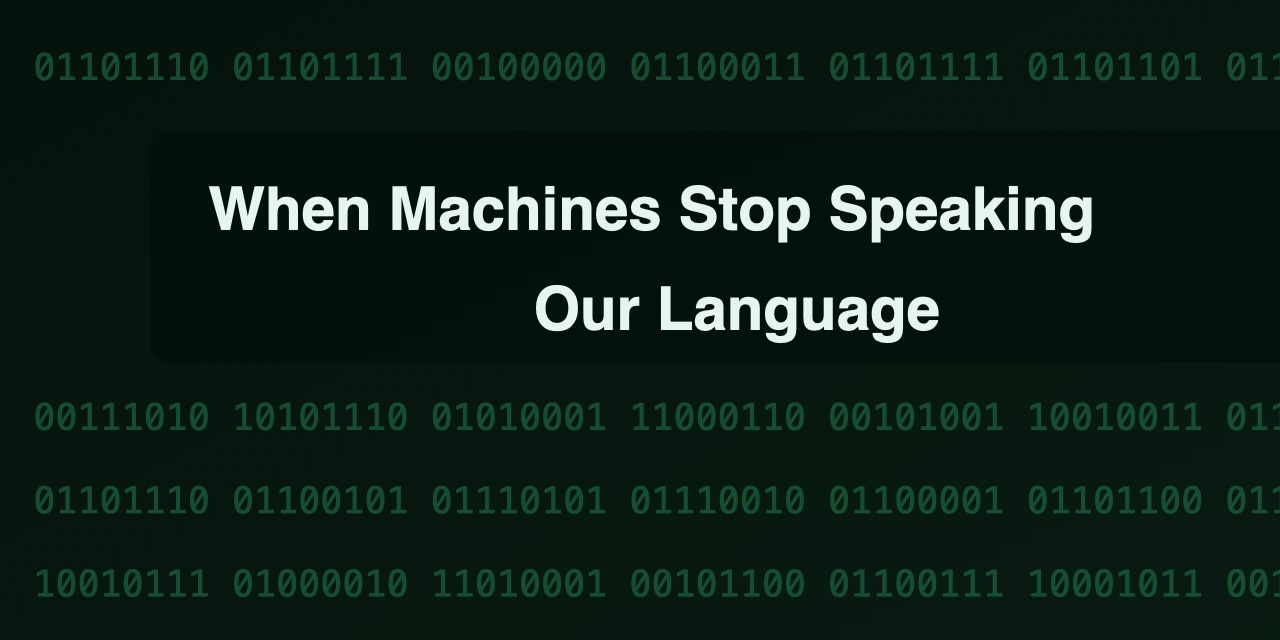
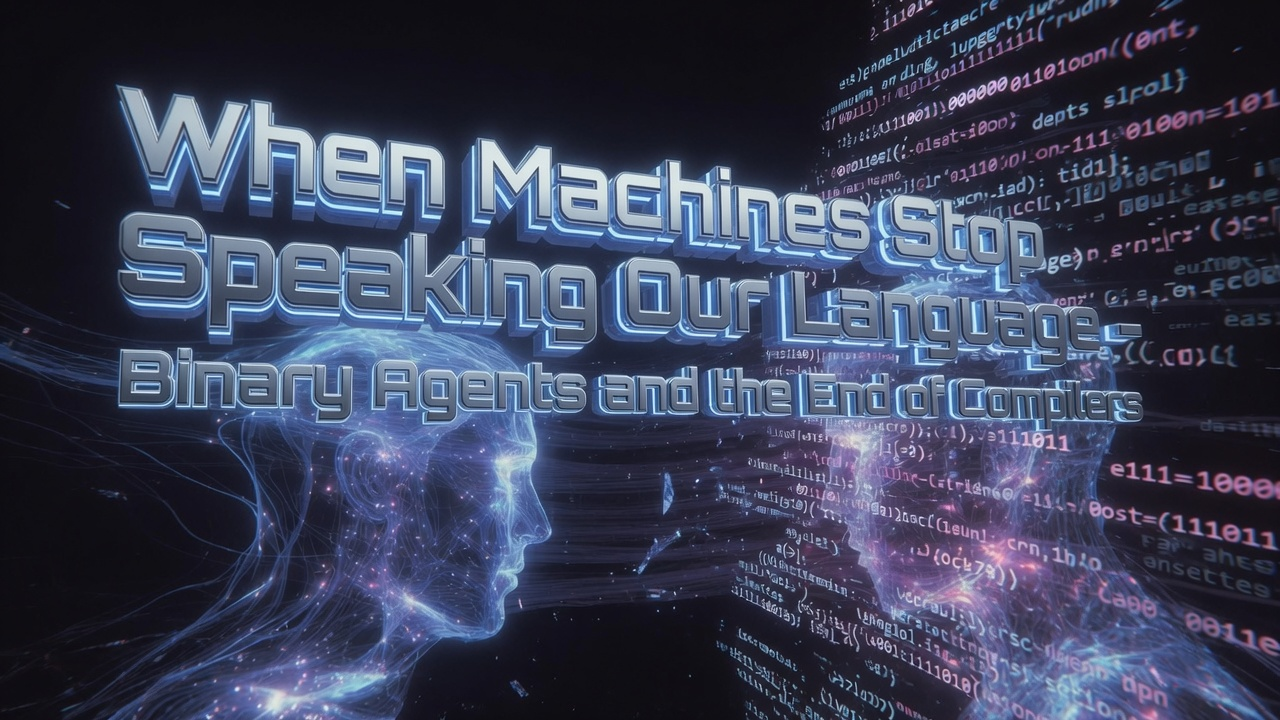
Update "When Machines Stop Speaking Our Language" article with new cover image and remove type classification
- Removed the type classification from the article metadata for consistency.
- Updated the cover image to enhance visual engagement and align with current content standards.

diff --git a/content/ai/agent-first-architecture-engineer-as-curator.md b/content/ai/agent-first-architecture-engineer-as-curator.md
@@ -2,7 +2,6 @@
 title: "Agent-First Architecture: The Engineer as System Curator"
 date: 2026-04-23T21:01:00+01:00
 draft: false
-type: essay
 tags: ["ai", "agent", "architecture", "platform-engineering", "data-engineering", "product-management", "leadership"]
 description: "Some thoughts on where agent-first architecture might take us, and what engineering could look like if the job shifts from building systems line by line to curating, governing, and evolving fleets of agents."
 cover:

diff --git a/content/ai/agent-protocols-mcp-a2a-acp.md b/content/ai/agent-protocols-mcp-a2a-acp.md
@@ -2,7 +2,6 @@
 title: "The Quiet Standardisation of Agent Protocols - MCP, A2A, ACP Compared"
 date: 2026-05-03T12:00:00+01:00
 draft: false
-type: essay
 tags: ['ai', 'agent', 'mcp', 'protocol', 'tools', 'interoperability', '2026']
 description: "While the headlines were about model launches, the agent ecosystem quietly converged on three protocols that matter - MCP, A2A, and ACP. A grounded comparison of what each one actually does, where they overlap, and which to bet on if you are building agents in 2026."
 cover:

diff --git a/content/ai/agent-reliability-debugging-non-deterministic.md b/content/ai/agent-reliability-debugging-non-deterministic.md
@@ -2,7 +2,6 @@
 title: "The Agent Reliability Problem: Debugging Non-Deterministic Systems"
 date: 2026-05-15T06:30:00+01:00
 draft: false
-type: essay
 tags: ["ai", "agent", "reliability", "debugging", "testing", "production", "agentic-engineering"]
 description: "AI agents that work in the demo and fail in production are the standard story of the last two years. A practical look at why agent reliability is genuinely hard, what patterns have emerged for handling it, and which testing approaches actually work."
 cover:

diff --git a/content/ai/ai-agents-that-actually-work.md b/content/ai/ai-agents-that-actually-work.md
@@ -2,7 +2,6 @@
 title: "AI Agents That Actually Work: Patterns From Real Projects"
 date: 2026-05-01T08:00:00+01:00
 draft: false
-type: essay
 tags: ["ai", "agent", "architecture", "tool-use", "agentic-engineering", "reliability"]
 description: "The patterns that separate agents that ship and stay shipped from the ones that demo well and fall over the moment they meet a real workload."
 cover:

diff --git a/content/ai/ai-energy-crisis-data-center-power.md b/content/ai/ai-energy-crisis-data-center-power.md
@@ -2,7 +2,6 @@
 title: "The AI Energy Crisis: Why Data Center Power Will Define the Next Decade"
 date: 2026-05-11T17:00:00+01:00
 draft: false
-type: essay
 tags: ["ai", "energy", "infrastructure", "data-center", "policy", "2026"]
 description: "A grounded look at the energy constraint becoming the binding limit on AI deployment in 2026 - the power demand, the transformer backlogs, the grid interconnect queues, the rising consumer electricity prices, and what it means for the shape of the next decade of compute."
 cover:

diff --git a/content/ai/ai-evals-are-broken.md b/content/ai/ai-evals-are-broken.md
@@ -3,7 +3,6 @@ title: "AI Evals Are Broken: Why Benchmarks Stopped Measuring Real Capability"
 date: 2026-06-12T19:00:00+01:00
 draft: false
 series: ["Trust"]
-type: essay
 tags: ["ai", "evals", "benchmarks", "mmlu", "swe-bench", "contamination", "agentic-engineering"]
 description: "A grounded look at why the public benchmark numbers you see on AI model launches in 2026 are increasingly disconnected from real-world capability - saturation, contamination, gaming, and what's replacing them as the basis for actual decisions."
 cover:

diff --git a/content/ai/ai-hallucinations-understanding-and-mitigating.md b/content/ai/ai-hallucinations-understanding-and-mitigating.md
@@ -2,7 +2,6 @@
 title: "AI Hallucinations: Understanding and Mitigating False Outputs"
 date: 2026-04-28T00:02:00+01:00
 draft: false
-type: essay
 tags: ["ai", "reliability", "llm", "hallucinations", "verification", "agentic-engineering"]
 description: "What hallucinations actually are, why the word is a slightly misleading import from psychiatry, why no model will ever stop producing them entirely, and the small set of techniques that genuinely move the dial on false outputs in production."
 cover:

diff --git a/content/ai/ai-reliability-is-weird.md b/content/ai/ai-reliability-is-weird.md
@@ -2,7 +2,6 @@
 title: "AI Reliability Is Weird: Why Testing LLMs Breaks Everything You Know"
 date: 2026-04-09T22:00:00+00:00
 draft: false
-type: essay
 tags: ["ai","reliability","testing","llm","agentic-engineering","verification"]
 description: "Traditional testing methods are failing in the age of autonomous AI agents. We need a new approach to ensure reliability when the 'builder' is non-deterministic."
 cover:

diff --git a/content/ai/ai-safety-first-principles.md b/content/ai/ai-safety-first-principles.md
@@ -2,7 +2,6 @@
 title: "AI Safety From First Principles: What Actually Matters vs What's Hype"
 date: 2026-04-30T08:00:00+01:00
 draft: false
-type: essay
 tags: ["ai", "safety", "alignment", "reliability", "policy", "agentic-engineering"]
 description: "Stripping the AI safety conversation down to its load-bearing parts, separating the engineering problems that matter today from the speculative scenarios that absorb most of the attention."
 cover:

diff --git a/content/ai/architect-vs-builder.md b/content/ai/architect-vs-builder.md
@@ -2,7 +2,6 @@
 title: "The Architect vs The Builder: Redefining Engineering Roles in 2026"
 date: 2026-04-06T14:00:00+00:00
 draft: false
-type: essay
 tags: ["ai","engineering","role","career","management"]
 description: "The traditional engineering hierarchy of junior→senior→architect is collapsing. What emerges is a cleaner, harsher split: people who decide what to build, and people who turn that decision into code."
 cover:

diff --git a/content/ai/automation-paradox.md b/content/ai/automation-paradox.md
@@ -2,7 +2,6 @@
 title: "The Automation Paradox: Why More AI Makes Human Judgment More Valuable"
 date: 2026-04-07T14:00:00+00:00
 draft: false
-type: essay
 tags: ["ai","automation","future-of-work","judgment","economics"]
 description: "As AI handles routine cognitive work, the irreplaceable skill becomes not execution, but deciding what's worth doing - and why human judgment becomes more valuable, not less."
 cover:

diff --git a/content/ai/context-engineering.md b/content/ai/context-engineering.md
@@ -2,7 +2,6 @@
 title: "Context Engineering: The Discipline That Replaced Prompt Engineering"
 date: 2026-05-20T20:45:00+01:00
 draft: false
-type: essay
 tags: ["ai", "context-engineering", "llm", "agent", "memory", "agentic-engineering"]
 description: "Prompt engineering was about wording a single request well. Context engineering is about curating everything in the model's window - retrieval, memory, tool results, and compaction - across a whole agent run. Here is why the discipline shifted, and the practices that separate reliable production systems from ones that quietly rot."
 cover: